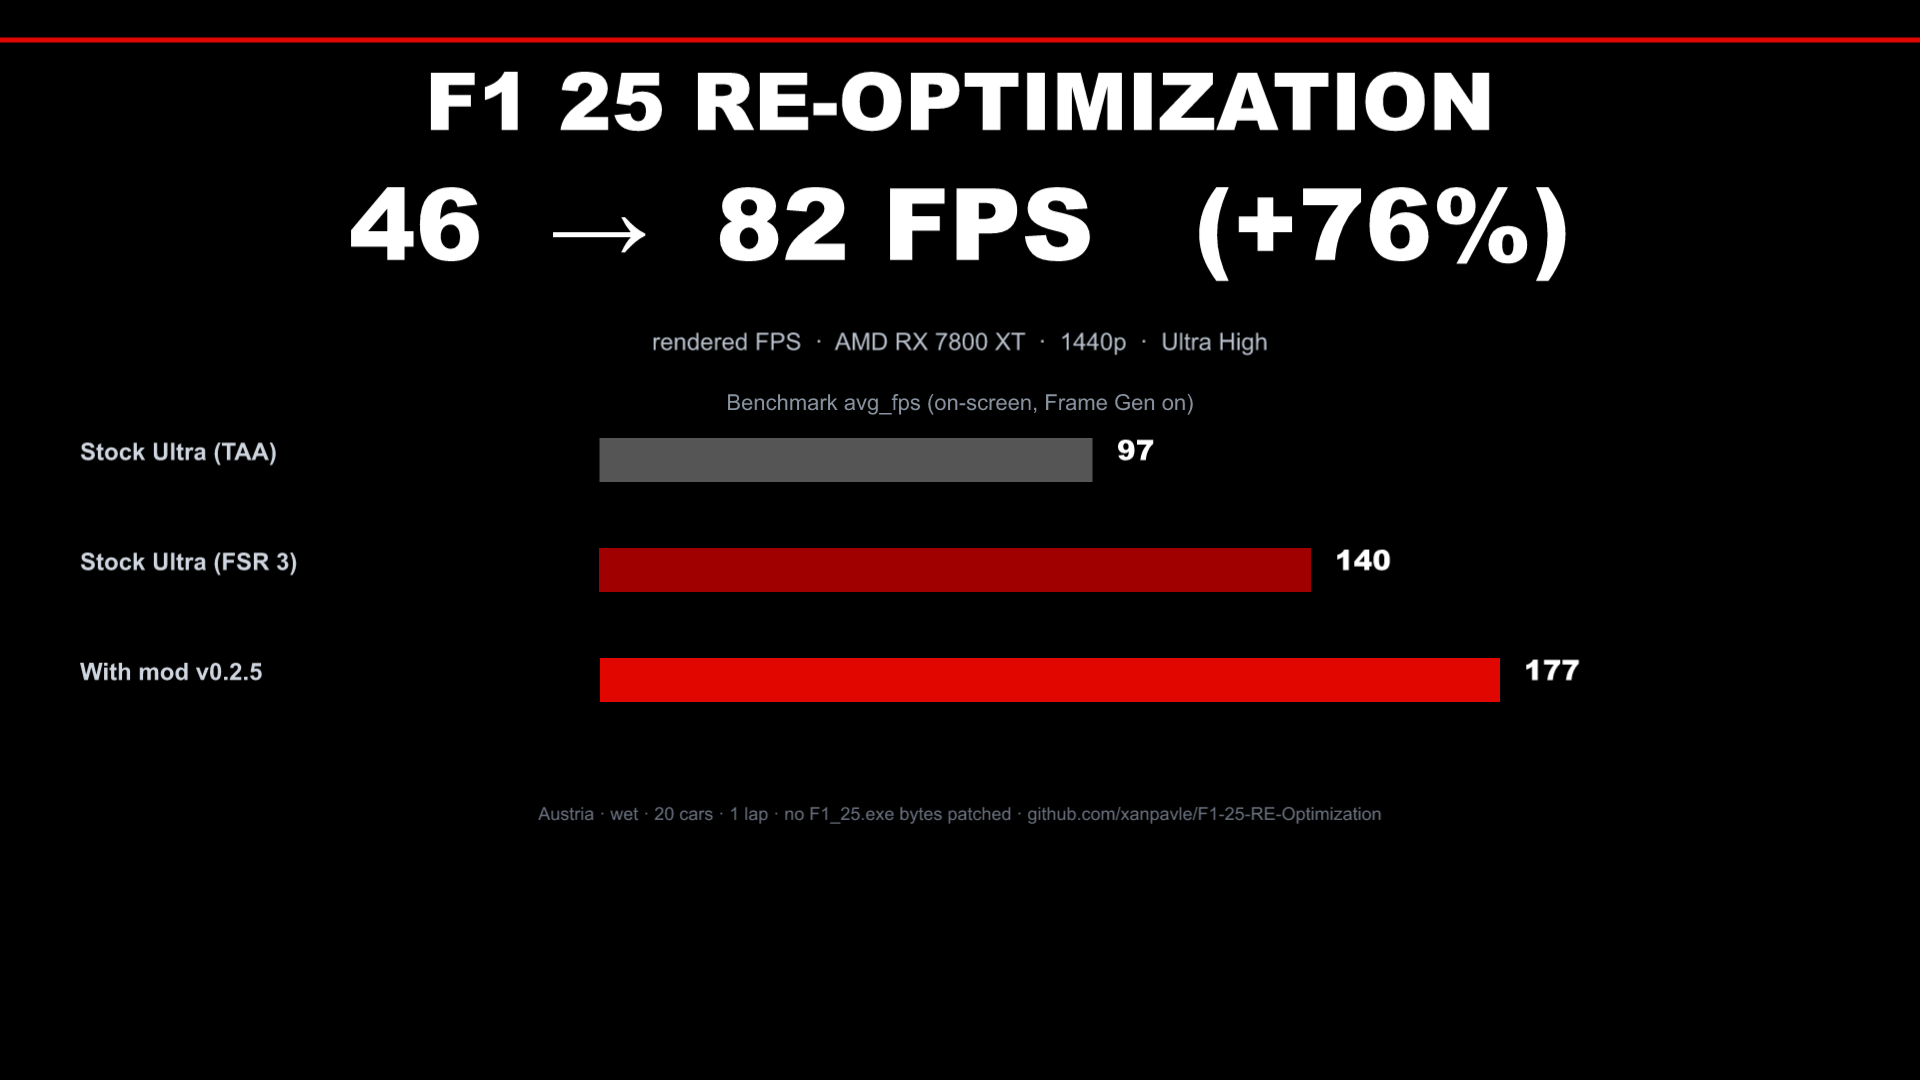
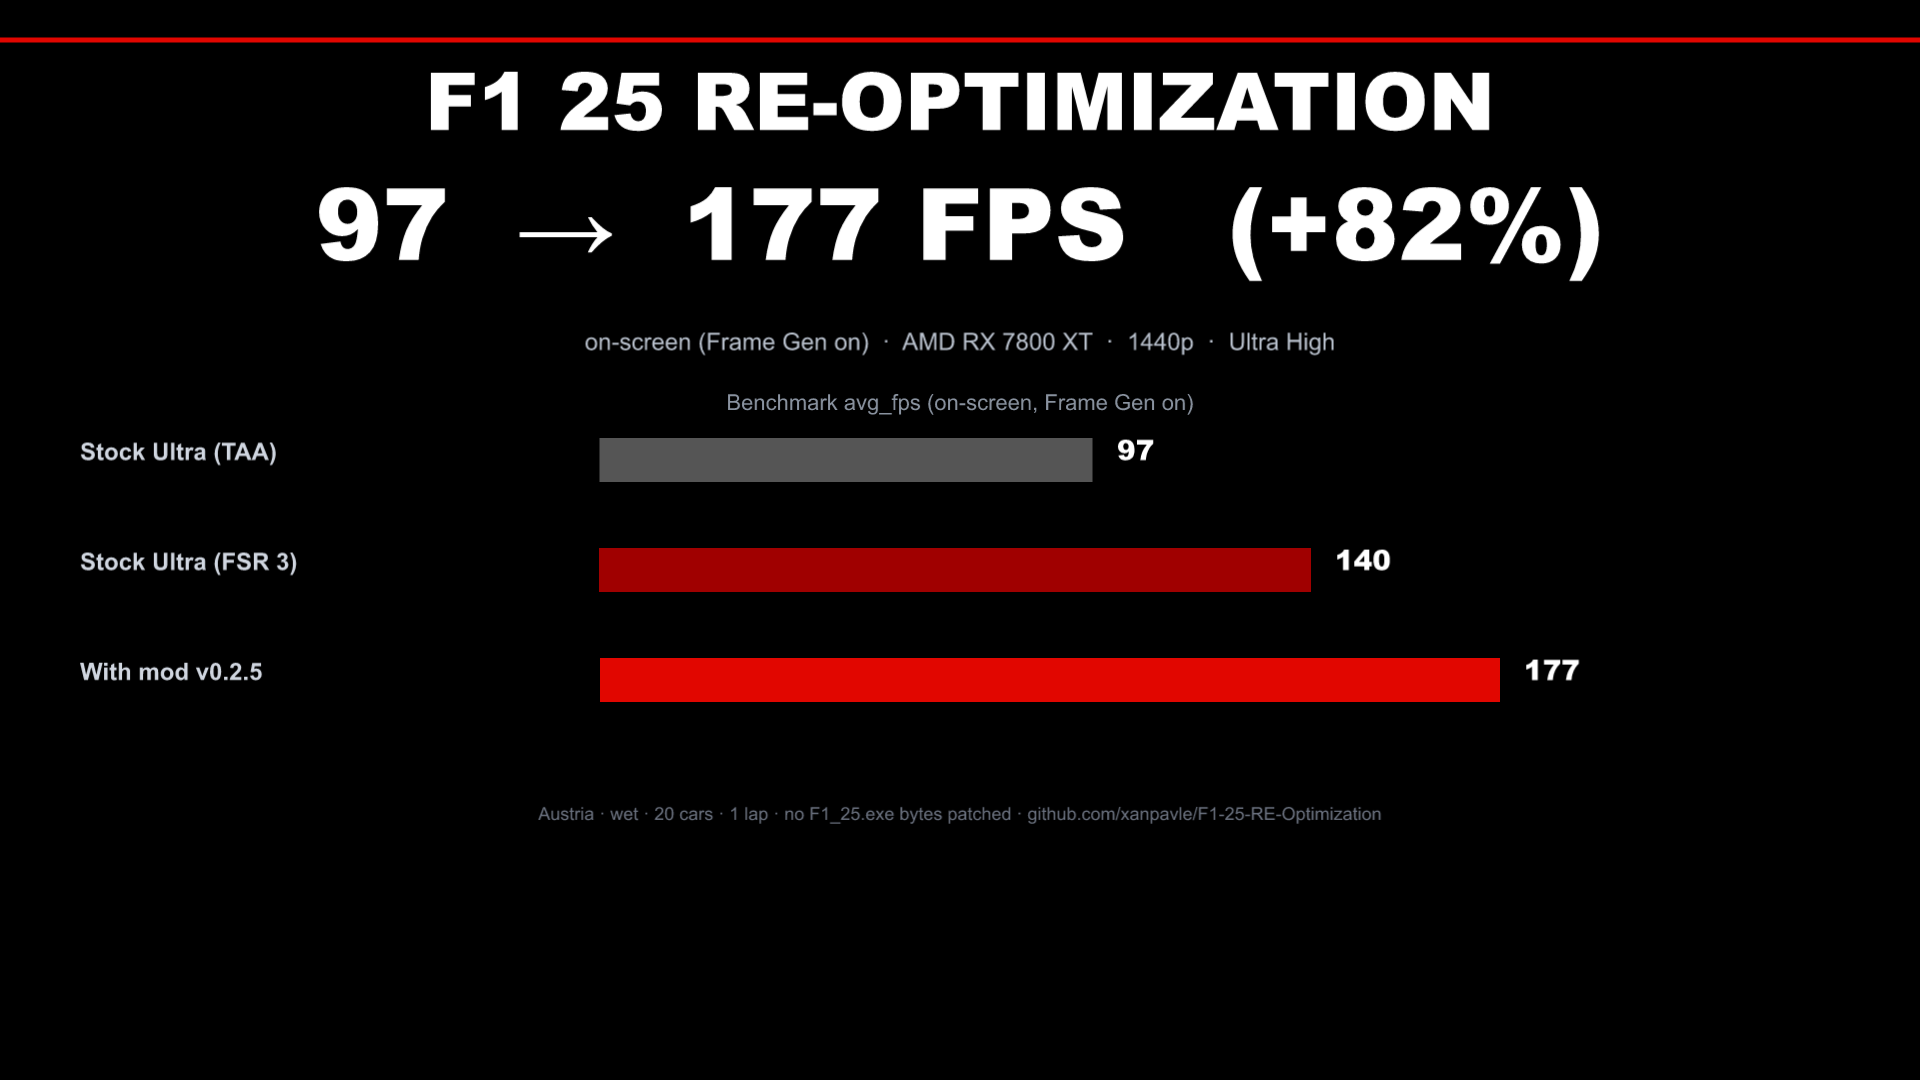
poster: use on-screen bench avg_fps (97 -> 177, +82%) in hero

diff --git a/README.md b/README.md
@@ -54,7 +54,8 @@ roughly double the frame-time average, so it is not used):
 | Stock Ultra High, all RT on, TAA only | 46.4 | 48.1 | 39.3 |
 | **v0.2.5** (FSR 3 auto + tuned delta + `rt_ao`/`rt_ddgi` off) | **81.5** | **88.5** | **72.0** |
 
-That is about **+76%**. Most of it comes from the upscaler finally engaging (a
+On-screen (Frame Gen on) that's **97 -> 177 FPS (+82%)**; the frame-time (rendered)
+figure is 46.4 -> 81.5 (+76%). Most of it comes from the upscaler finally engaging (a
 prerequisite fix in v0.2.5 — the engine was silently falling back to TAA); the tuned
 raster/RT delta adds the rest. Numbers are from a single machine and will vary.
 
